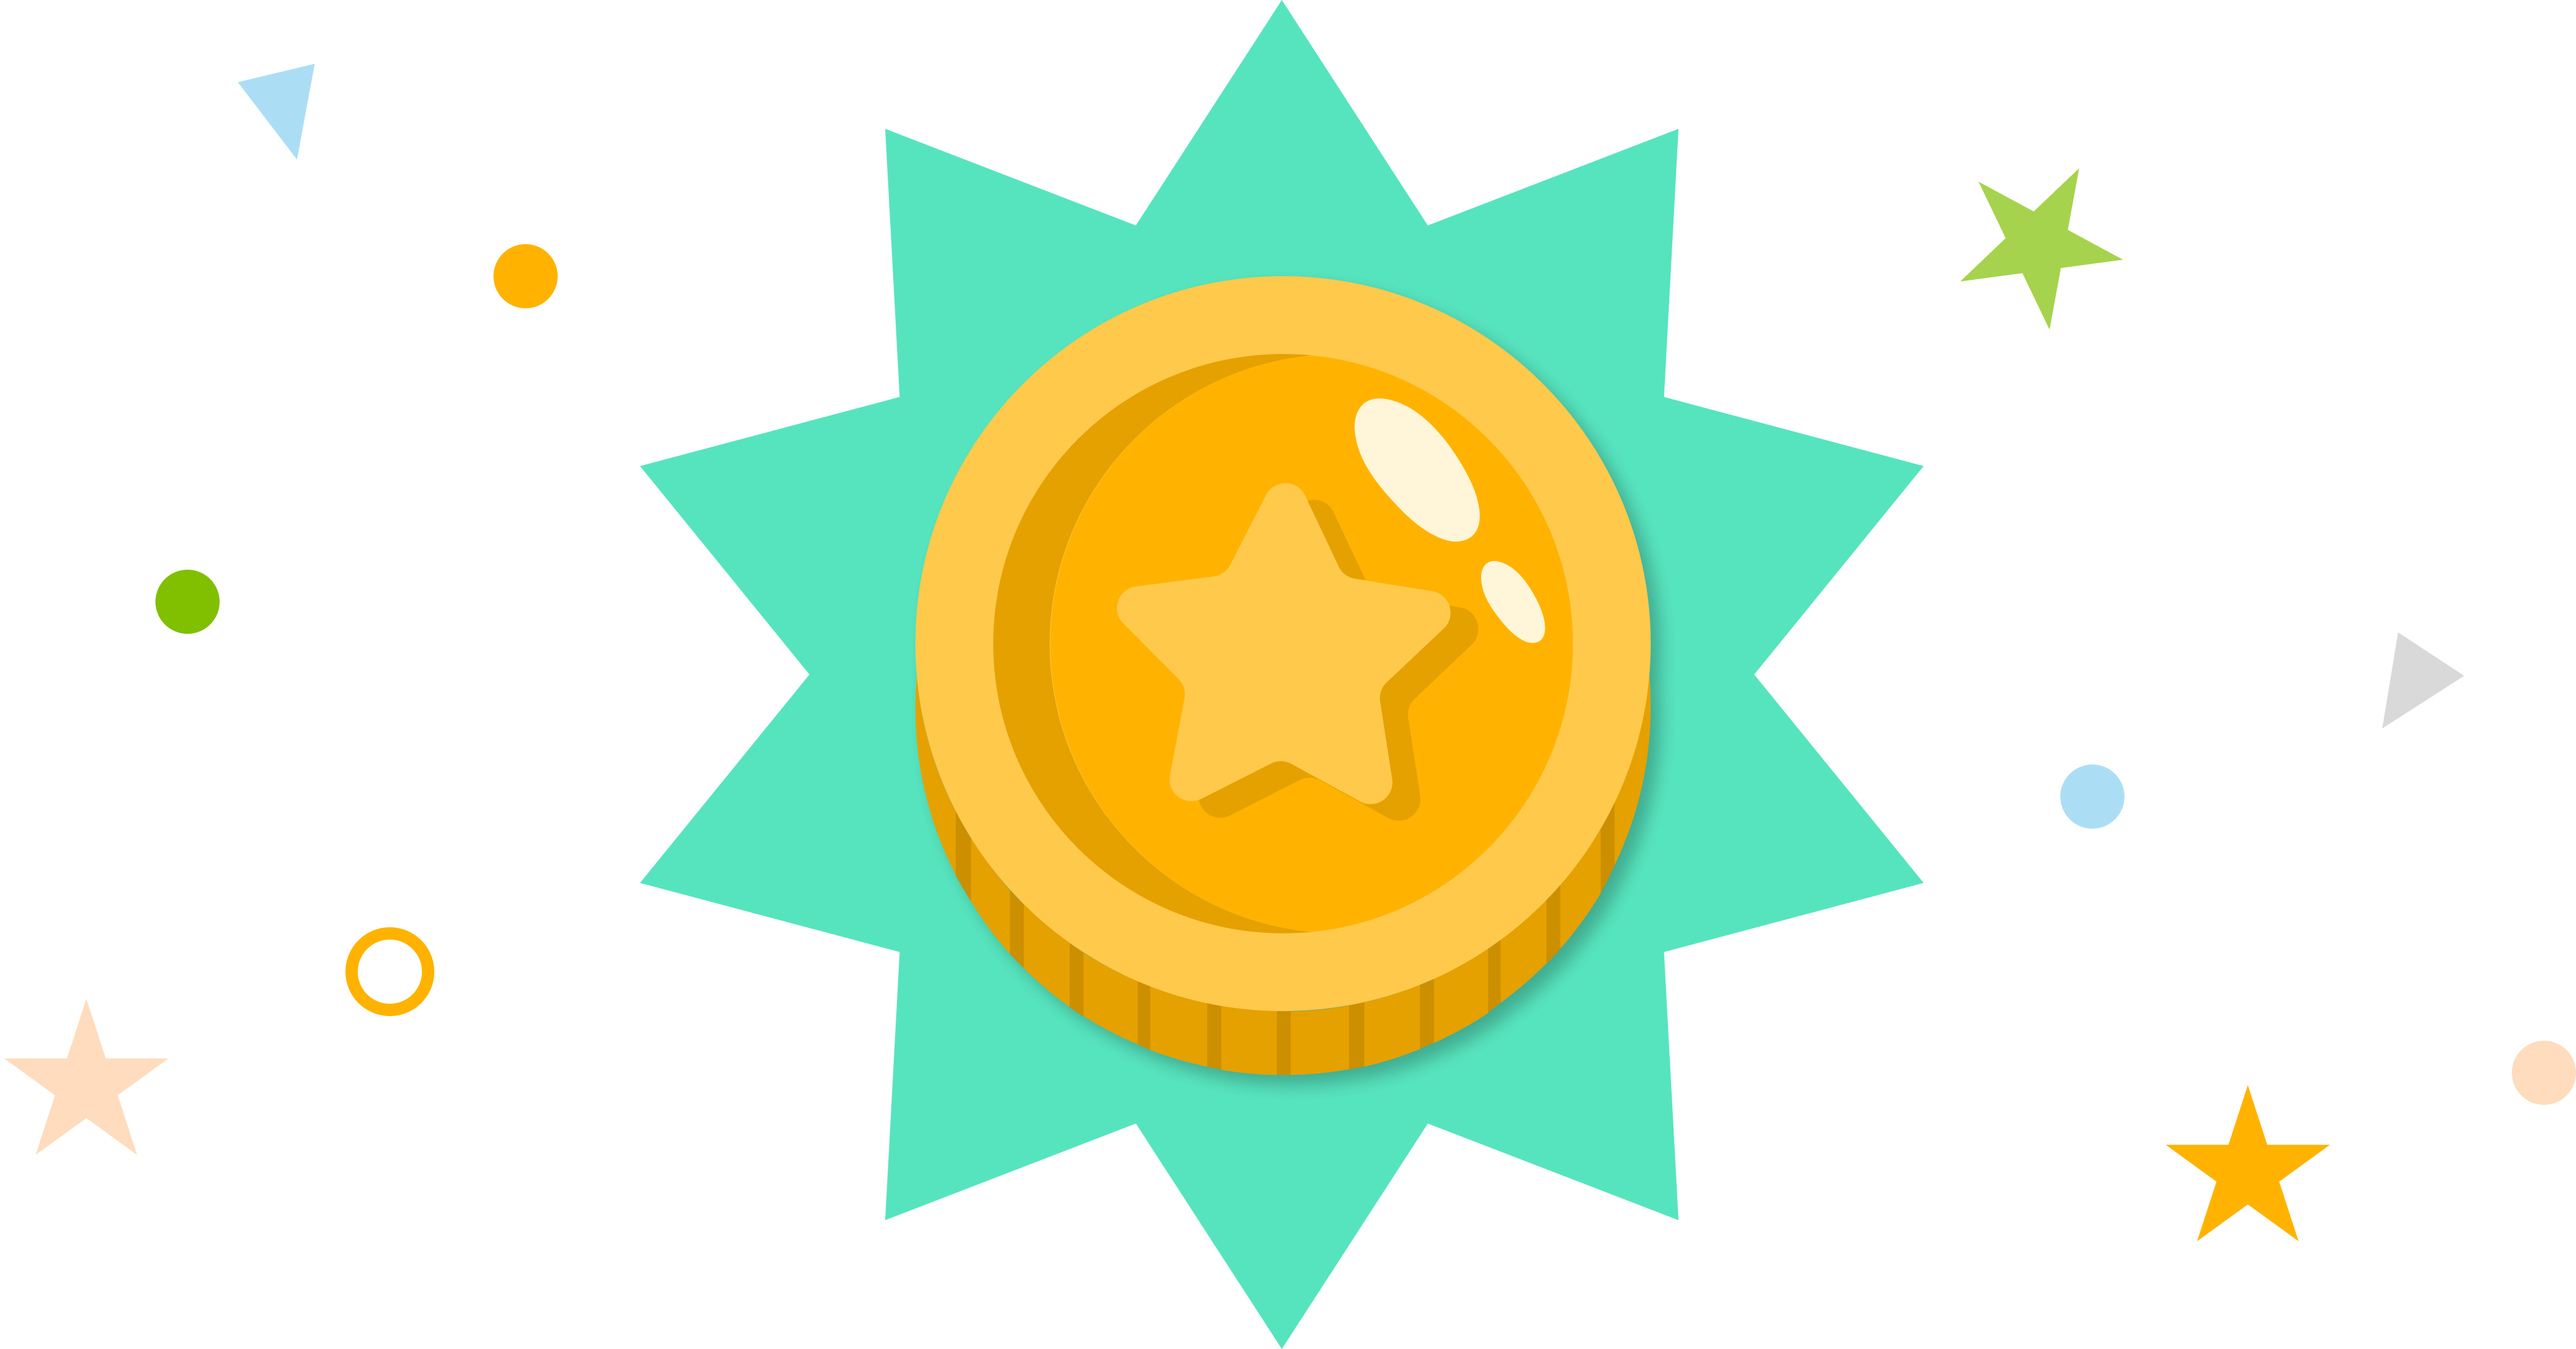
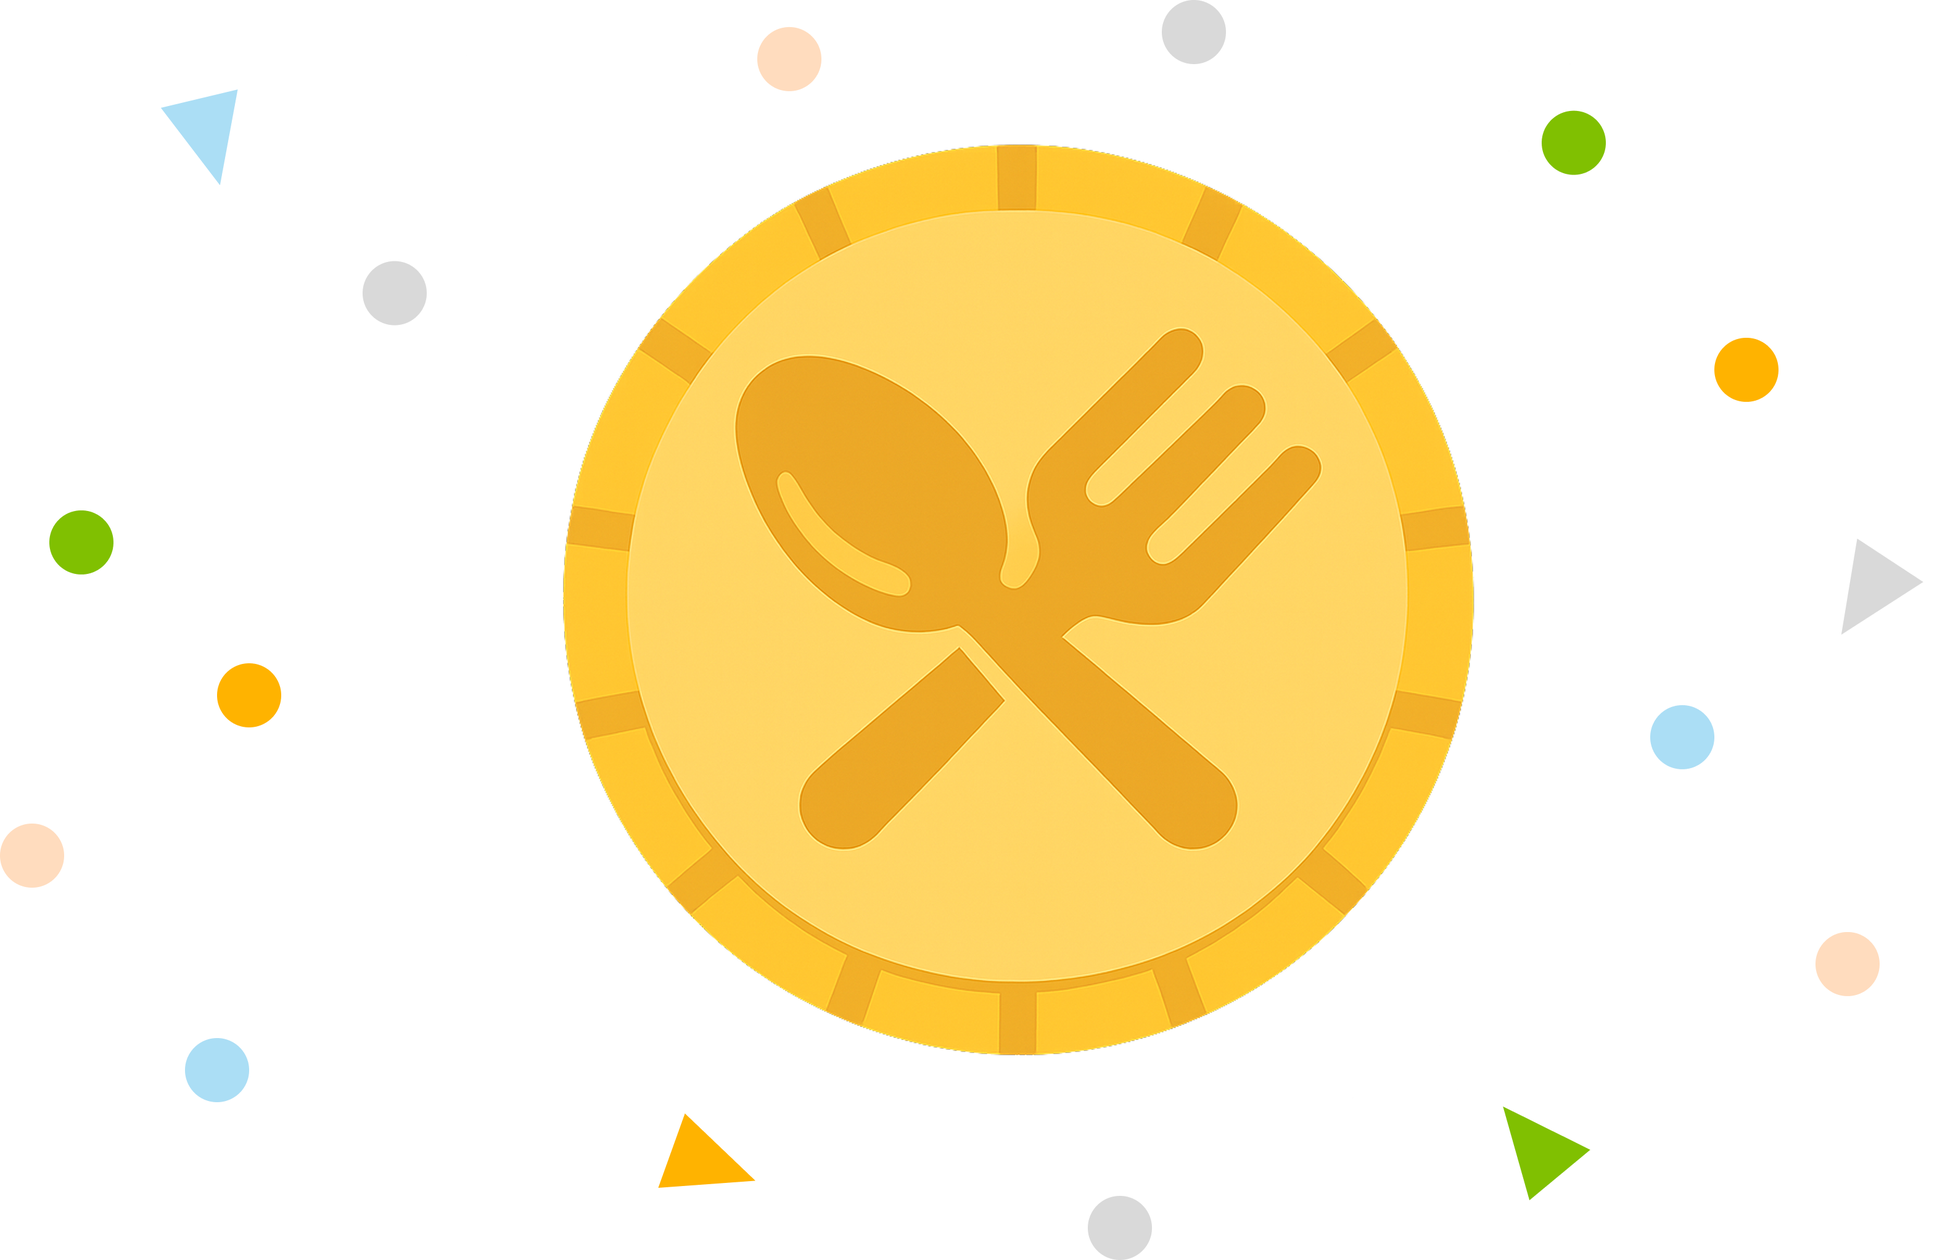
Updated CompletedChallengeModal UI

diff --git a/biteclub/src/components/challenges/ChallengeCompletedModal.jsx b/biteclub/src/components/challenges/ChallengeCompletedModal.jsx
@@ -5,37 +5,55 @@ import Image from 'next/image';
 // modal that pops up automatically when user completes WHOLE challenge
 export default function ChallengeCompletedModal({ numPointsWon = 123, setShowChallengeCompletedModal }) {
   return (
-    <div className="fixed inset-0 z-100 w-screen h-screen bg-brand-navy flex flex-col items-center gap-y-8">
-      {/* Close Modal Icon */}
-      <div className="fixed top-3 right-3 p-1 w-fit h-fit" onClick={() => setShowChallengeCompletedModal(false)}>
-        <FontAwesomeIcon
-          icon={faXmarkCircle}
-          className="text-4xl text-brand-blue cursor-pointer transition-transform duration-200 hover:scale-125"
-        />
-      </div>
-      {/* Num of Points Header */}
-      <div className="text-white font-primary text-3xl flex items-baseline-last gap-x-1">
-        <div className="flex items-center gap-x-2">
-          <FontAwesomeIcon icon={faPlus} className="text-5xl text-white cursor-pointer" />
-          <div className=" relative w-56 h-32">
-            <div className="absolute top-0 right-1 font-secondary text-[8rem] ">{numPointsWon}</div>
+    <div className="fixed inset-0 z-100 w-screen h-screen bg-brand-green flex items-center justify-between">
+      <div
+        className="h-full w-1/4 bg-cover"
+        style={{
+          backgroundImage: "url('/img/confetti-large.png')",
+          backgroundSize: '290%',
+          backgroundPosition: '0rem',
+          transform: 'scaleX(-1)',
+        }}
+      ></div>
+
+      <div className="w-2/4 h-full flex flex-col items-center justify-evenly text-brand-navy">
+        {/* Num of Points Header */}
+        <div className="text-brand-navy font-primary text-3xl flex items-baseline-last gap-x-0">
+          <div className="flex items-center gap-x-1">
+            <FontAwesomeIcon icon={faPlus} className="text-6xl text-brand-navy cursor-pointer" />
             <div
-              className="absolute top-1 right-0 font-secondary text-[8rem] text-brand-green"
+              className="font-secondary text-[12rem] text-brand-navy"
               style={{
-                WebkitTextStroke: '1px white',
+                WebkitTextStroke: '2px white',
               }}
             >
               {numPointsWon}
             </div>
           </div>
+          <span className="text-3xl font-semibold">points</span>
         </div>
-        <span className="text-3xl font-semibold">points</span>
+        {/* Coin Image */}
+        <div className="relative h-86 w-full">
+          <Image src={'/img/coinWithFork.png'} alt={'coin and confetti'} className="object-contain" fill={true} />
+        </div>
+        <span className="text-brand-navy text-3xl font-semibold font-primary uppercase">Challenge Completed!</span>
       </div>
-      {/* Coin + Confetti Image */}
-      <div className="relative h-110 w-full">
-        <Image src={'/img/coinAndConfetti.png'} alt={'coin and confetti'} className="object-contain" fill={true} />
+      <div
+        className="h-full w-1/4 bg-cover"
+        style={{
+          backgroundImage: "url('/img/confetti-large.png')",
+          backgroundSize: '290%',
+          backgroundPosition: '0rem',
+        }}
+      >
+        {/* Close Modal Icon */}
+        <div className="fixed top-3 right-3 p-1 w-fit h-fit" onClick={() => setShowChallengeCompletedModal(false)}>
+          <FontAwesomeIcon
+            icon={faXmarkCircle}
+            className="text-5xl text-white cursor-pointer transition-transform duration-200 hover:scale-125"
+          />
+        </div>
       </div>
-      <h2 className="text-brand-aqua-lite">Challenge Completed!</h2>
     </div>
   );
 }
